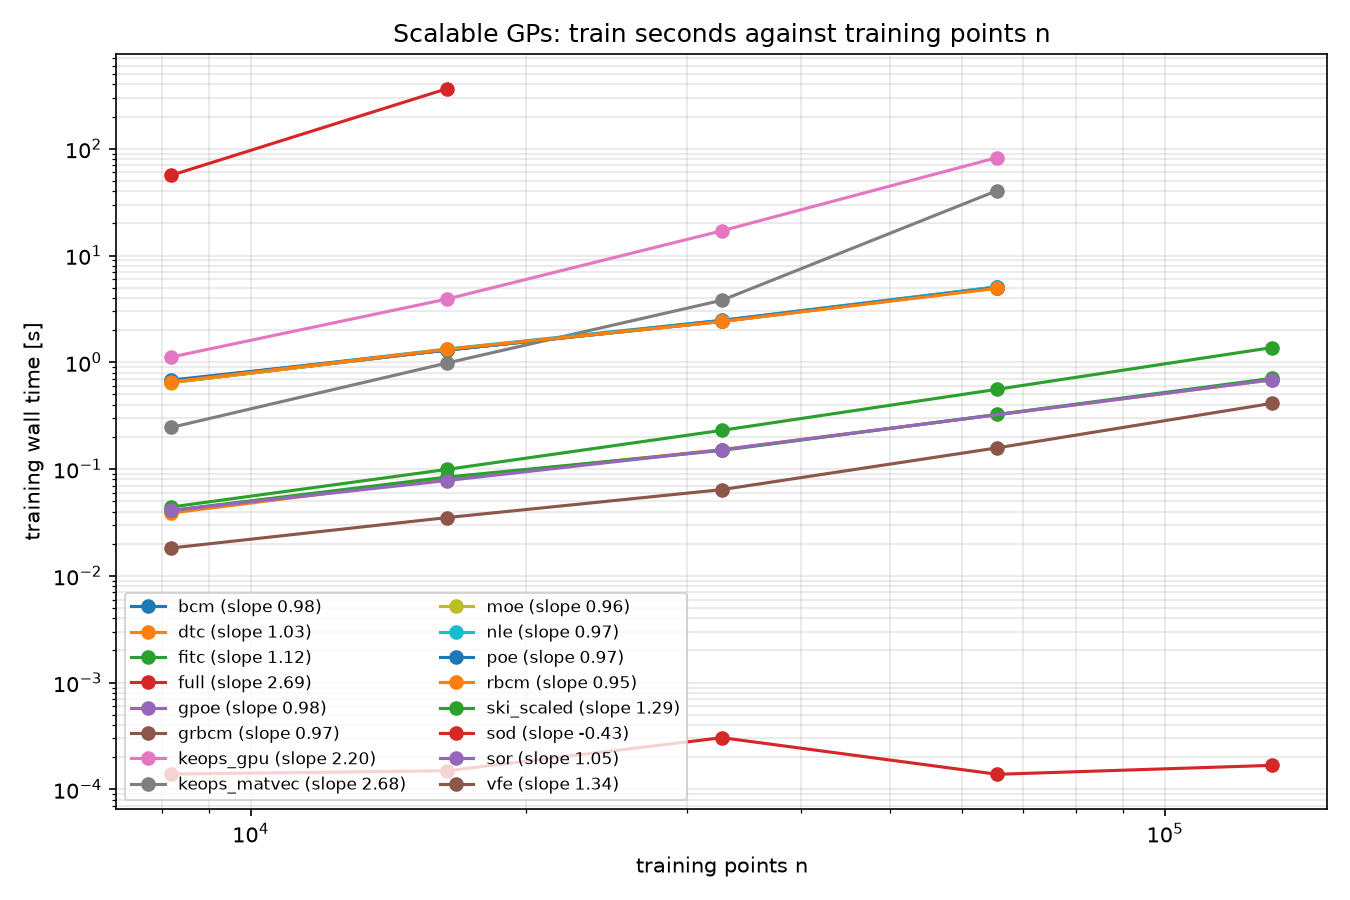
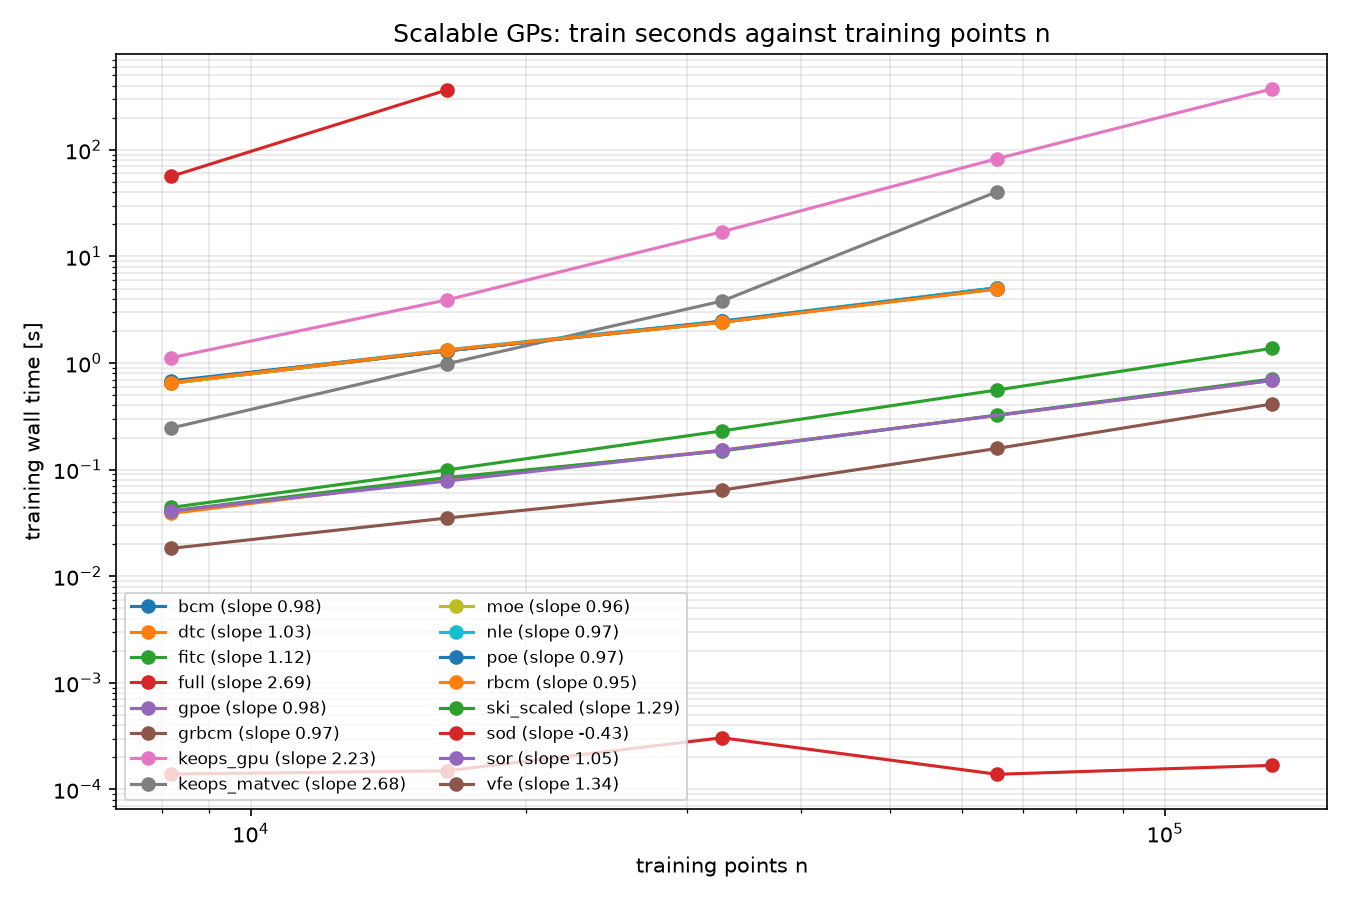
Record the 131k device solve and the resulting conclusion

diff --git a/results/SCALABLE_GP.md b/results/SCALABLE_GP.md
@@ -223,6 +223,7 @@ memory-accuracy trade in it.
 | 16,384 | 3.91 s | - | - | 158 MiB | 8.325399e-4 |
 | 32,768 | 17.0 s | - | - | 159 MiB | 3.788e-4 |
 | 65,536 | 82.7 s | - | - | 160 MiB | 2.138e-4 |
+| 131,072 | 374.0 s | ~1.7 h (est.) | - | 162 MiB | 6.995e-5 |
 
 The memory is flat: the 158 MiB is the CUDA runtime, not the problem. The
 accuracy is the exact GP's to seven digits where the exact GP can still be run
@@ -255,6 +256,32 @@ A third defect, upstream in `fortnum`, blocked the device lane entirely: the
 generated FortAD derivative kernels carried no `!$acc routine seq`, so
 `nvfortran` refused every compute region that reaches them. Fixed in the
 generator and its 39 generated files.
+
+## The answer at n = 131,072
+
+This is the row that settles it. All five methods on the same problem, same
+data, same kernel:
+
+| method | train | peak | SMSE |
+| --- | --- | --- | --- |
+| VFE | **0.413 s** | 71.6 MiB | 8.08e-5 |
+| DTC | 0.686 s | 201.8 MiB | 6.78e-5 |
+| FITC | 0.708 s | 201.9 MiB | **6.76e-5** |
+| SKI (grid `n/8`) | 1.375 s | **19.0 MiB** | 6.97e-5 |
+| exact, matrix-free on GPU | 374.0 s | 162.5 MiB | 6.99e-5 |
+| exact, dense | impossible - 137 GB | - | - |
+
+The exact solve is **529 times slower than FITC and 272 times slower than SKI,
+and its accuracy is no better**: 6.99e-5 against FITC's 6.76e-5 and SKI's
+6.97e-5. At this sample count the error is set by the observation noise and the
+model, not by the solver, so the approximations have already reached the
+accuracy ceiling that exactness would buy. Paying 529x for it returns nothing.
+
+That is the conclusion for this problem. It is not a general law: it holds
+because 64 inducing points already summarize a one-dimensional `sinc` with
+131,072 samples on it. A target with structure that a rank-64 summary cannot
+capture would separate the methods again, and that is the experiment that would
+change the answer.
 
 ## Is the KeOps-style matrix-free lane good enough on its own?
 
@@ -316,9 +343,9 @@ These supersede the small-n plots below. `ski_scaled` is SKI with the grid at
 
 | Plot | URL |
 | --- | --- |
-| training time against `n` | https://box.sloppy.at/77193.png |
-| peak memory against `n` | https://box.sloppy.at/2b9cf.png |
-| accuracy against `n` | https://box.sloppy.at/39740.png |
+| training time against `n` | https://box.sloppy.at/9fdc1.png |
+| peak memory against `n` | https://box.sloppy.at/945a4.png |
+| accuracy against `n` | https://box.sloppy.at/15ceb.png |
 
 Measured slopes over 8,192 to 131,072:
 
